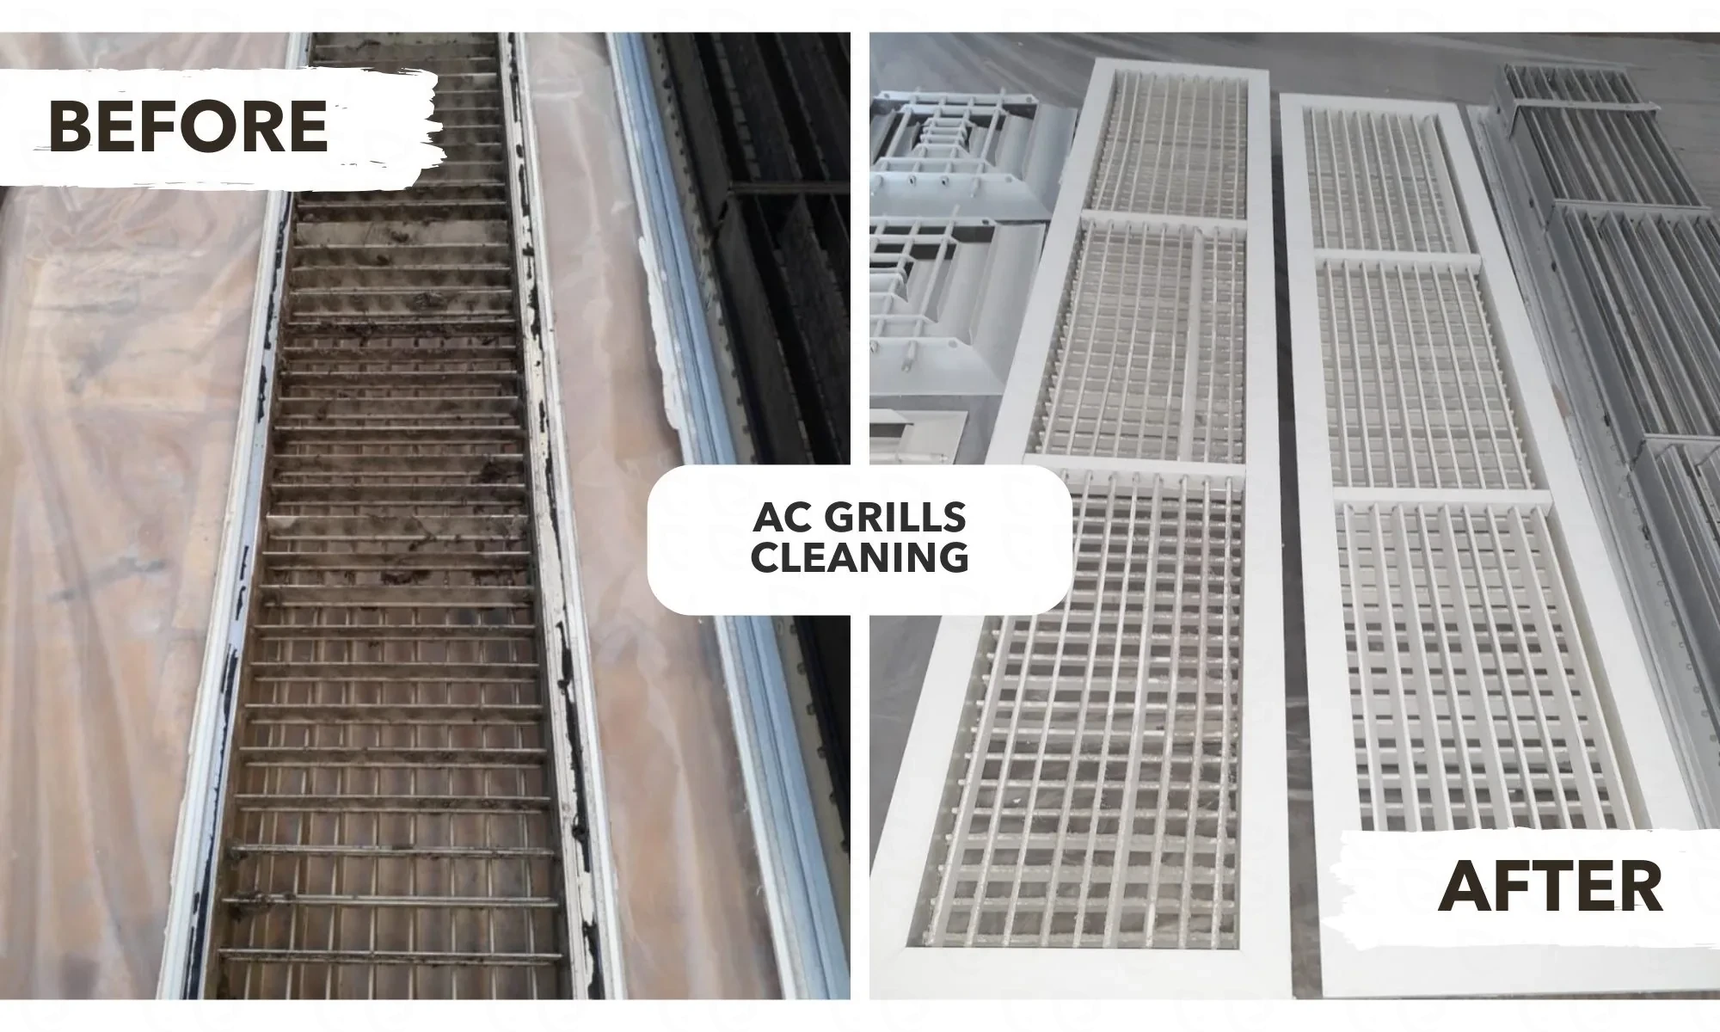
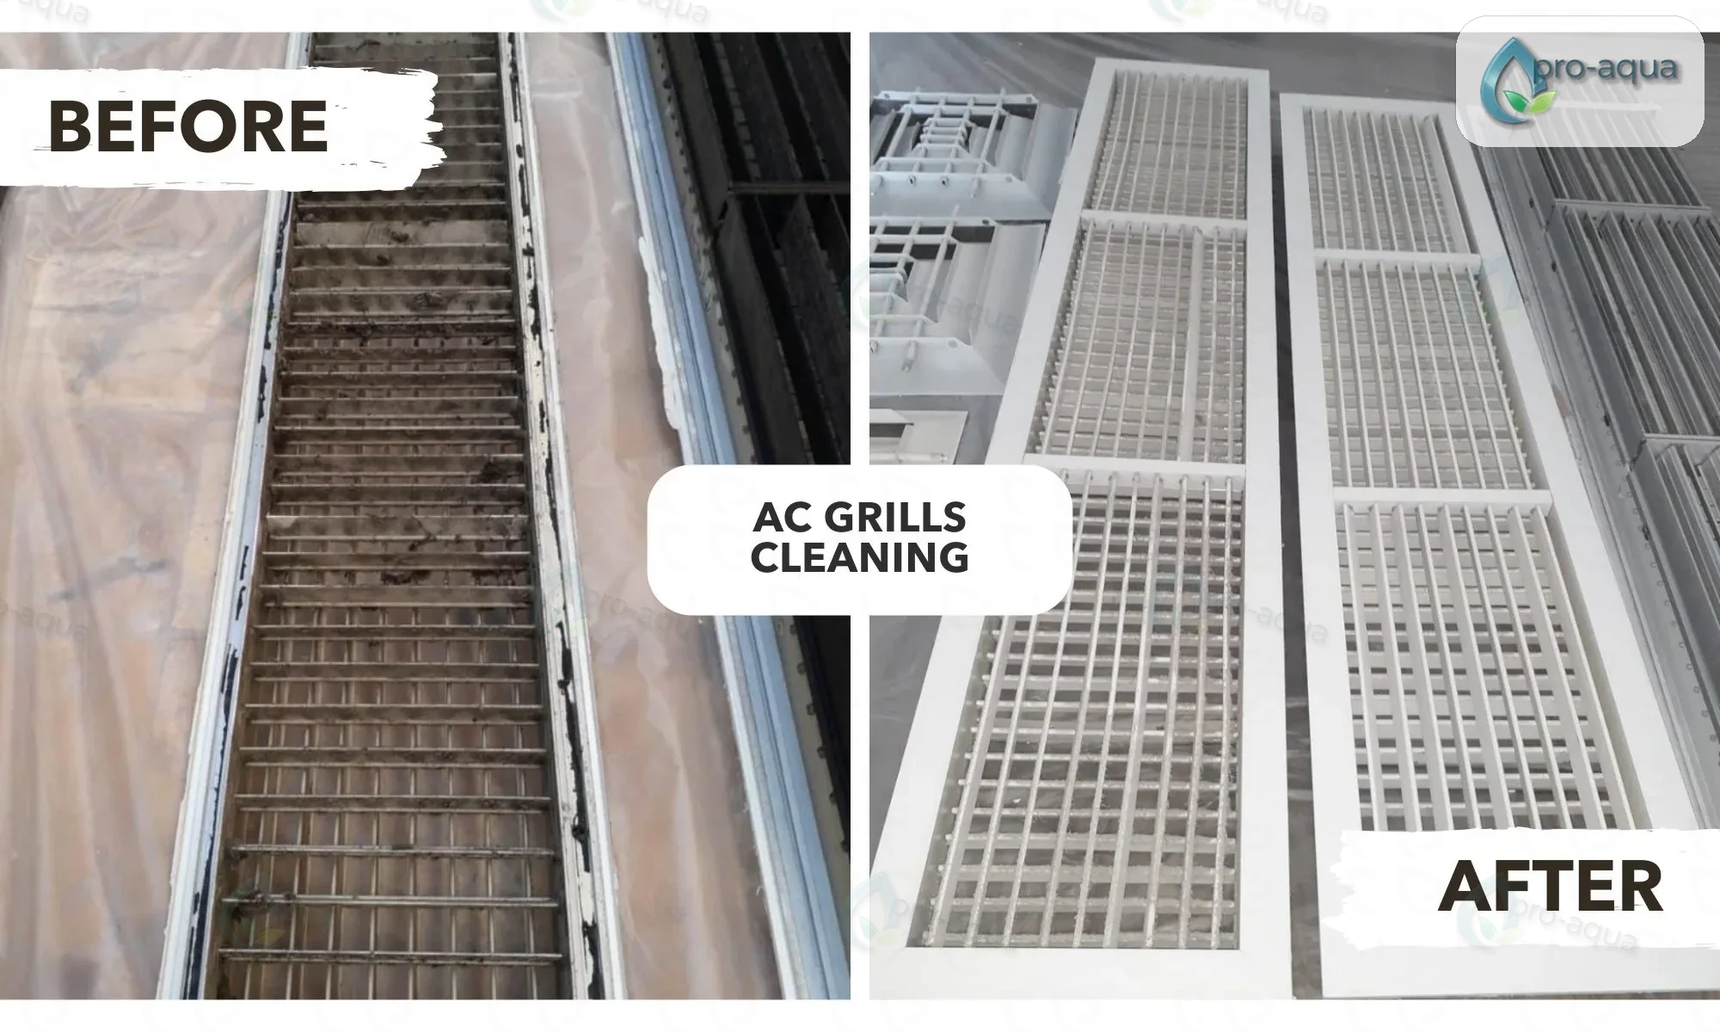
Add risk check section and protected image lightbox

Changed region(s): [[0.837, 0.0308, 0.992, 0.1542]]

diff --git a/index.html b/index.html
@@ -1161,21 +1161,44 @@ a:focus-visible,button:focus-visible,.hbtn:focus-visible,.bb-cta:focus-visible,.
 }
 /* ── Section visual separation ─────────────────────────────────── */
 section[id]:not(#hero):not(#before-after){border-top:2px solid var(--bg3)}
-/* ── Warning Signs Section ──────────────────────────────────────── */
-#warning-signs{background:var(--bg2)}
-.ws-chip{display:inline-flex;align-items:center;gap:6px;background:rgba(220,38,38,.1);border:1px solid rgba(220,38,38,.25);border-radius:20px;padding:5px 13px;font-size:12px;font-weight:700;color:#DC2626;letter-spacing:.4px;margin-bottom:18px}
-.ws-grid{display:grid;grid-template-columns:repeat(5,1fr);gap:14px;margin:32px 0 40px}
-.ws-card{background:#fff;border-radius:14px;padding:24px 14px 20px;text-align:center;border:1px solid var(--bg3);transition:transform .2s,box-shadow .2s}
-.ws-card:hover{transform:translateY(-3px);box-shadow:0 8px 24px rgba(0,0,0,.08)}
-.ws-ico{width:54px;height:54px;border-radius:50%;display:flex;align-items:center;justify-content:center;margin:0 auto 14px}
-.ws-label{font-size:13.5px;font-weight:700;color:var(--navy);margin-bottom:6px;line-height:1.3}
-.ws-desc{font-size:12px;color:#6b7280;line-height:1.5}
-.ws-cta-wrap{text-align:center}
-.ws-btn{display:inline-flex;align-items:center;gap:8px;background:var(--navy);color:#fff;border:none;border-radius:10px;padding:15px 30px;font-size:15px;font-weight:700;cursor:pointer;transition:background .2s,transform .2s}
-.ws-btn:hover{background:#253e55;transform:translateY(-1px)}
-.ws-btn-note{font-size:12px;color:#9ca3af;margin-top:10px}
-@media(max-width:900px){.ws-grid{grid-template-columns:repeat(3,1fr)}}
-@media(max-width:560px){.ws-grid{grid-template-columns:repeat(2,1fr);gap:10px}.ws-card{padding:16px 10px 14px}.ws-ico{width:44px;height:44px}.ws-label{font-size:12.5px}}
+/* ── Warning Signs / Risk Check Section ─────────────────────────── */
+#warning-signs{background:linear-gradient(180deg,#fff 0%,var(--bg2) 100%)}
+.ws-head{text-align:center;max-width:760px;margin:0 auto}
+.ws-chip{display:inline-flex;align-items:center;gap:6px;background:rgba(220,38,38,.08);border:1px solid rgba(220,38,38,.22);border-radius:999px;padding:6px 16px;font-size:12px;font-weight:800;color:#DC2626;letter-spacing:.04em;margin-bottom:18px}
+.ws-grid{display:grid;grid-template-columns:repeat(5,minmax(0,1fr));gap:20px;max-width:900px;margin:42px auto 38px;align-items:start}
+.ws-card{appearance:none;background:transparent;border:0;text-align:center;display:flex;flex-direction:column;align-items:center;gap:14px;cursor:default;color:inherit;min-width:0}
+.ws-photo{width:116px;height:116px;border-radius:50%;padding:4px;background:#fff;box-shadow:0 10px 28px rgba(28,50,68,.12);border:1px solid rgba(220,38,38,.16);position:relative;overflow:hidden;transition:transform .2s ease,box-shadow .2s ease,border-color .2s ease}
+.ws-photo::after{content:'';position:absolute;inset:4px;border-radius:50%;box-shadow:inset 0 0 0 1px rgba(255,255,255,.75);pointer-events:none}
+.ws-photo img{width:100%;height:100%;object-fit:cover;border-radius:50%;display:block;user-select:none;-webkit-user-drag:none}
+.ws-card:hover .ws-photo,.ws-card:focus-visible .ws-photo{transform:translateY(-4px);box-shadow:0 16px 36px rgba(28,50,68,.18);border-color:rgba(220,38,38,.3)}
+.ws-card:focus-visible{outline:3px solid rgba(88,153,227,.42);outline-offset:8px;border-radius:16px}
+.ws-label{font-size:14px;font-weight:800;color:var(--navy);line-height:1.25;max-width:138px}
+.ws-cta-wrap{text-align:center;display:flex;flex-direction:column;align-items:center;gap:10px}
+.ws-btn{display:inline-flex;align-items:center;justify-content:center;gap:9px;background:var(--blue);color:#fff;border:none;border-radius:12px;padding:17px 34px;font-size:16px;font-weight:800;cursor:pointer;transition:background .2s,transform .2s,box-shadow .2s;box-shadow:0 8px 24px rgba(88,153,227,.28);min-height:54px}
+.ws-btn:hover{background:var(--blue-d);transform:translateY(-1px);box-shadow:0 12px 30px rgba(88,153,227,.34)}
+.ws-btn-note{font-size:12px;color:#7b8794;font-style:italic}
+.ws-mini-proof{display:inline-flex;align-items:center;gap:8px;background:#fff;border:1px solid var(--bg3);border-radius:999px;padding:8px 14px;font-size:12px;font-weight:700;color:var(--navy);box-shadow:var(--sh0)}
+.ws-mini-proof i{width:7px;height:7px;border-radius:50%;background:#25D366;display:inline-block;box-shadow:0 0 0 4px rgba(37,211,102,.12)}
+@media(max-width:900px){.ws-grid{grid-template-columns:repeat(3,1fr);max-width:620px}.ws-photo{width:108px;height:108px}}
+@media(max-width:560px){.ws-grid{grid-template-columns:repeat(2,1fr);gap:20px 12px;margin:34px auto}.ws-photo{width:96px;height:96px}.ws-label{font-size:13px}.ws-btn{width:100%;padding:16px 18px}.ws-mini-proof{width:100%;justify-content:center}}
+/* ── Protected Image Lightbox ───────────────────────────────────── */
+.pa-lightbox-ready{cursor:zoom-in}
+.pa-img-lightbox{position:fixed;inset:0;z-index:10020;background:rgba(10,22,34,.84);display:flex;align-items:center;justify-content:center;padding:28px;opacity:0;pointer-events:none;transition:opacity .22s ease}
+.pa-img-lightbox.open{opacity:1;pointer-events:auto}
+.pa-lightbox-panel{width:min(1120px,100%);max-height:92vh;display:flex;flex-direction:column;gap:12px;transform:translateY(14px) scale(.985);transition:transform .22s ease}
+.pa-img-lightbox.open .pa-lightbox-panel{transform:translateY(0) scale(1)}
+.pa-lightbox-top{display:flex;align-items:center;justify-content:space-between;gap:14px;color:#fff}
+.pa-lightbox-brand{display:inline-flex;align-items:center;gap:10px;font-size:13px;font-weight:800;letter-spacing:.03em;text-transform:uppercase}
+.pa-lightbox-brand img{height:30px;width:auto;filter:drop-shadow(0 3px 10px rgba(0,0,0,.2))}
+.pa-lightbox-close{width:42px;height:42px;border:1px solid rgba(255,255,255,.24);border-radius:999px;background:rgba(255,255,255,.1);color:#fff;font-size:24px;line-height:1;display:flex;align-items:center;justify-content:center;transition:background .18s,border-color .18s}
+.pa-lightbox-close:hover{background:rgba(255,255,255,.18);border-color:rgba(255,255,255,.38)}
+.pa-lightbox-frame{position:relative;border-radius:18px;overflow:hidden;background:#0b1621;border:1px solid rgba(255,255,255,.16);box-shadow:0 28px 80px rgba(0,0,0,.45)}
+.pa-lightbox-frame::before{content:'';position:absolute;inset:0;z-index:2;pointer-events:none;background-image:url('assets/logo-full.webp');background-repeat:repeat;background-size:210px auto;opacity:.09;transform:rotate(-14deg) scale(1.18);transform-origin:center}
+.pa-lightbox-frame::after{content:'PRO AQUA DUBAI';position:absolute;right:18px;bottom:16px;z-index:3;background:rgba(255,255,255,.88);color:var(--navy);border-radius:999px;padding:7px 14px;font-size:11px;font-weight:900;letter-spacing:.08em;box-shadow:0 8px 28px rgba(0,0,0,.2);pointer-events:none}
+.pa-lightbox-img{display:block;width:100%;max-height:76vh;object-fit:contain;background:#fff;user-select:none;-webkit-user-drag:none}
+.pa-lightbox-caption{color:rgba(255,255,255,.78);font-size:13px;line-height:1.45;min-height:18px}
+@media(max-width:640px){.pa-img-lightbox{padding:14px}.pa-lightbox-top{align-items:flex-start}.pa-lightbox-brand span{display:none}.pa-lightbox-frame{border-radius:14px}.pa-lightbox-frame::before{background-size:150px auto;opacity:.1}.pa-lightbox-frame::after{right:10px;bottom:10px;font-size:9px;padding:5px 9px}.pa-lightbox-img{max-height:72vh}}
+@media(prefers-reduced-motion:reduce){.pa-img-lightbox,.pa-lightbox-panel{transition:none}}
 /* ── Risk Check Popup — Step-by-Step ─────────────────────────────── */
 .risk-overlay{position:fixed;inset:0;background:rgba(0,0,0,.55);z-index:10000;display:flex;align-items:center;justify-content:center;padding:16px;opacity:0;pointer-events:none;transition:opacity .25s}
 .risk-overlay.open{opacity:1;pointer-events:auto}
@@ -1437,7 +1460,7 @@ section[id]:not(#hero):not(#before-after){border-top:2px solid var(--bg3)}
           <div class="rs-option" onclick="rsAnswer(2,0)"><span class="rs-opt-icon">✅</span><div><div class="rs-opt-title">No smell at all</div><div class="rs-opt-sub">Good sign</div></div></div>
           <div class="rs-option" onclick="rsAnswer(2,1)"><span class="rs-opt-icon">📅</span><div><div class="rs-opt-title">Rarely — very mild</div><div class="rs-opt-sub">Early warning</div></div></div>
           <div class="rs-option" onclick="rsAnswer(2,2)"><span class="rs-opt-icon">⚠</span><div><div class="rs-opt-title">Often — noticeable</div><div class="rs-opt-sub">Mould likely present</div></div></div>
-          <div class="rs-option" onclick="rsAnswer(2,3)"><span class="rs-opt-icon">🔴</span><div><div class="rs-opt-title">Every time — strong smell</div><div class="rs-opt-sub">Urgent — bacteria / mould confirmed</div></div></div>
+          <div class="rs-option" onclick="rsAnswer(2,3)"><span class="rs-opt-icon">🔴</span><div><div class="rs-opt-title">Every time — strong smell</div><div class="rs-opt-sub">Urgent warning sign — needs inspection</div></div></div>
         </div>
       </div>
       <!-- Q4 -->
@@ -1465,7 +1488,7 @@ section[id]:not(#hero):not(#before-after){border-top:2px solid var(--bg3)}
       <!-- Q6 -->
       <div class="rs-q-step" id="rsq-5" style="display:none">
         <div class="rs-question">Are family members experiencing symptoms at home?</div>
-        <div class="rs-q-hint">Poor indoor air quality is the #1 cause of unexplained allergy symptoms in Dubai homes</div>
+        <div class="rs-q-hint">Poor indoor air quality can contribute to allergy-like symptoms in Dubai homes</div>
         <div class="rs-options">
           <div class="rs-option" onclick="rsAnswer(5,0)"><span class="rs-opt-icon">✅</span><div><div class="rs-opt-title">No symptoms at home</div><div class="rs-opt-sub">All clear</div></div></div>
           <div class="rs-option" onclick="rsAnswer(5,1)"><span class="rs-opt-icon">📅</span><div><div class="rs-opt-title">Mild, occasional sneezing</div><div class="rs-opt-sub">Monitor closely</div></div></div>
@@ -1821,56 +1844,44 @@ section[id]:not(#hero):not(#before-after){border-top:2px solid var(--bg3)}
 
 <!-- ===================== WARNING SIGNS ===================== -->
 <section id="warning-signs">
-  <div class="sec" style="text-align:center">
-    <span class="ws-chip">
-      <svg width="13" height="13" viewBox="0 0 24 24" fill="none" stroke="currentColor" stroke-width="2.5" stroke-linecap="round" stroke-linejoin="round"><path d="M10.29 3.86L1.82 18a2 2 0 0 0 1.71 3h16.94a2 2 0 0 0 1.71-3L13.71 3.86a2 2 0 0 0-3.42 0z"/><line x1="12" y1="9" x2="12" y2="13"/><line x1="12" y1="17" x2="12.01" y2="17"/></svg>
-      Warning Signs
-    </span>
-    <h2 class="sec-t">Does Your Home Show These<br><em style="color:#DC2626;font-style:normal">Warning Signs?</em></h2>
-    <p class="sec-sub" style="max-width:560px;margin:0 auto 0">If you recognise any of these, your AC ducts or home may need professional attention.</p>
-    <div class="ws-grid">
+  <div class="sec">
+    <div class="ws-head">
+      <span class="ws-chip">
+        <svg width="13" height="13" viewBox="0 0 24 24" fill="none" stroke="currentColor" stroke-width="2.5" stroke-linecap="round" stroke-linejoin="round" aria-hidden="true"><path d="M10.29 3.86L1.82 18a2 2 0 0 0 1.71 3h16.94a2 2 0 0 0 1.71-3L13.71 3.86a2 2 0 0 0-3.42 0z"/><line x1="12" y1="9" x2="12" y2="13"/><line x1="12" y1="17" x2="12.01" y2="17"/></svg>
+        Warning Signs
+      </span>
+      <h2 class="sec-t">Does Your Home Show These<br><em style="color:#DC2626;font-style:italic">Warning Signs?</em></h2>
+      <p class="sec-sub" style="max-width:640px;margin:0 auto">If you recognise any of these, your AC ducts or home may need professional attention. Take the free Risk Check Quiz before you book anything.</p>
+    </div>
+    <div class="ws-grid" aria-label="AC risk warning signs">
       <div class="ws-card">
-        <div class="ws-ico" style="background:rgba(220,38,38,.1)">
-          <svg width="26" height="26" viewBox="0 0 24 24" fill="none" stroke="#DC2626" stroke-width="2" stroke-linecap="round" stroke-linejoin="round"><path d="M12 22s8-4 8-10V5l-8-3-8 3v7c0 6 8 10 8 10z"/></svg>
-        </div>
-        <div class="ws-label">Allergy Triggers</div>
-        <div class="ws-desc">Sneezing, itchy eyes or headaches that improve when you leave home</div>
+        <span class="ws-photo"><img src="assets/campaign-back-to-school-allergy-reset-dubai-v2.webp" alt="Allergy trigger warning sign in a Dubai family home" loading="lazy"></span>
+        <span class="ws-label">Allergy triggers</span>
       </div>
       <div class="ws-card">
-        <div class="ws-ico" style="background:rgba(251,188,4,.1)">
-          <svg width="26" height="26" viewBox="0 0 24 24" fill="none" stroke="#B45309" stroke-width="2" stroke-linecap="round" stroke-linejoin="round"><path d="M12 2a7 7 0 0 1 7 7c0 5-7 13-7 13S5 14 5 9a7 7 0 0 1 7-7z"/><circle cx="12" cy="9" r="2.5"/></svg>
-        </div>
-        <div class="ws-label">Musty Smell from AC</div>
-        <div class="ws-desc">Stale or mouldy odour every time the AC turns on or airflow starts</div>
+        <span class="ws-photo"><img src="assets/before-after-ac-duct-deep-cleaning-dubai.webp" alt="AC duct contamination that can cause bad smell from vents" loading="lazy"></span>
+        <span class="ws-label">Bad smell from vents</span>
       </div>
       <div class="ws-card">
-        <div class="ws-ico" style="background:rgba(107,114,128,.1)">
-          <svg width="26" height="26" viewBox="0 0 24 24" fill="none" stroke="#4B5563" stroke-width="2" stroke-linecap="round" stroke-linejoin="round"><rect x="3" y="3" width="18" height="18" rx="2"/><line x1="3" y1="9" x2="21" y2="9"/><line x1="9" y1="9" x2="9" y2="21"/></svg>
-        </div>
-        <div class="ws-label">Dust or Mould at Vents</div>
-        <div class="ws-desc">Dark marks or visible dust buildup around AC grilles and diffusers</div>
+        <span class="ws-photo"><img src="assets/before-after-ac-grills-cleaning.webp" alt="Black dust and mould warning signs around AC grills" loading="lazy"></span>
+        <span class="ws-label">Black dust or mould around AC grills</span>
       </div>
       <div class="ws-card">
-        <div class="ws-ico" style="background:rgba(88,153,227,.1)">
-          <svg width="26" height="26" viewBox="0 0 24 24" fill="none" stroke="#5899E3" stroke-width="2" stroke-linecap="round" stroke-linejoin="round"><path d="M9.59 4.59A2 2 0 1 1 11 8H2m10.59 11.41A2 2 0 1 0 14 16H2m15.73-8.27A2.5 2.5 0 1 1 19.5 12H2"/></svg>
-        </div>
-        <div class="ws-label">Weak Airflow</div>
-        <div class="ws-desc">Poor cooling or low airflow despite the AC running at full capacity</div>
+        <span class="ws-photo"><img src="assets/before-after-ac-filter-sanitizing.webp" alt="Dirty AC filter warning sign for weak airflow or poor cooling" loading="lazy"></span>
+        <span class="ws-label">Weak airflow or poor cooling</span>
       </div>
       <div class="ws-card">
-        <div class="ws-ico" style="background:rgba(77,168,130,.1)">
-          <svg width="26" height="26" viewBox="0 0 24 24" fill="none" stroke="#4DA882" stroke-width="2" stroke-linecap="round" stroke-linejoin="round"><line x1="12" y1="1" x2="12" y2="23"/><path d="M17 5H9.5a3.5 3.5 0 0 0 0 7h5a3.5 3.5 0 0 1 0 7H6"/></svg>
-        </div>
-        <div class="ws-label">High DEWA Bills</div>
-        <div class="ws-desc">Electricity bills that keep rising without a change in usage habits</div>
+        <span class="ws-photo"><img src="assets/campaign-summer-ac-check-dubai-v2.webp" alt="AC inspection warning sign linked to high DEWA bills" loading="lazy"></span>
+        <span class="ws-label">High DEWA bills</span>
       </div>
     </div>
     <div class="ws-cta-wrap">
       <button class="ws-btn" onclick="openRisk()">
-        <svg width="17" height="17" viewBox="0 0 24 24" fill="none" stroke="currentColor" stroke-width="2.5" stroke-linecap="round" stroke-linejoin="round"><circle cx="11" cy="11" r="8"/><line x1="21" y1="21" x2="16.65" y2="16.65"/></svg>
-        Check Your AC Risk — Free
+        <svg width="18" height="18" viewBox="0 0 24 24" fill="none" stroke="currentColor" stroke-width="2.5" stroke-linecap="round" stroke-linejoin="round" aria-hidden="true"><circle cx="11" cy="11" r="8"/><line x1="21" y1="21" x2="16.65" y2="16.65"/></svg>
+        Start Risk Check Quiz — Free
       </button>
-      <div class="ws-btn-note">Takes 30 seconds · No commitment</div>
+      <div class="ws-mini-proof"><i></i> Popup quiz · 6 questions · WhatsApp result</div>
+      <div class="ws-btn-note">Takes 90 seconds · No commitment</div>
     </div>
   </div>
 </section>
@@ -3184,6 +3195,89 @@ function playVideo(){
 
   if(document.readyState==='loading')document.addEventListener('DOMContentLoaded',initScrollSpy);
   else initScrollSpy();
+})();
+</script>
+
+<!-- PROTECTED IMAGE LIGHTBOX -->
+<div id="pa-img-lightbox" class="pa-img-lightbox" role="dialog" aria-modal="true" aria-hidden="true" aria-label="Image preview">
+  <div class="pa-lightbox-panel" role="document">
+    <div class="pa-lightbox-top">
+      <div class="pa-lightbox-brand">
+        <img src="assets/logo-full.webp" alt="Pro Aqua Dubai">
+        <span>Protected Pro Aqua Dubai image</span>
+      </div>
+      <button type="button" class="pa-lightbox-close" aria-label="Close image preview">×</button>
+    </div>
+    <div class="pa-lightbox-frame">
+      <img id="pa-lightbox-img" class="pa-lightbox-img" src="" alt="" draggable="false">
+    </div>
+    <div id="pa-lightbox-caption" class="pa-lightbox-caption"></div>
+  </div>
+</div>
+<script>
+(function(){
+  function initProtectedLightbox(){
+    var overlay=document.getElementById('pa-img-lightbox');
+    var imgEl=document.getElementById('pa-lightbox-img');
+    var capEl=document.getElementById('pa-lightbox-caption');
+    var closeBtn=overlay&&overlay.querySelector('.pa-lightbox-close');
+    if(!overlay||!imgEl||!capEl||!closeBtn)return;
+    var lastFocus=null;
+
+    function findCaption(img){
+      var card=img.closest('.ba-card,.srv-card,.season-card,.rev-card,.franco-card');
+      if(card){
+        var title=card.querySelector('.ba-cap-t,h3,strong');
+        if(title&&title.textContent.trim())return title.textContent.trim();
+      }
+      return img.getAttribute('alt')||'Pro Aqua Dubai image';
+    }
+    function isEligible(img){
+      if(!img||img.dataset.noLightbox!==undefined)return false;
+      if(img.closest('nav,footer,.fc-av,.risk-overlay'))return false;
+      var src=(img.currentSrc||img.getAttribute('src')||'').toLowerCase();
+      if(!src||src.indexOf('logo')>-1||src.indexOf('favicon')>-1)return false;
+      return true;
+    }
+    function openFor(img){
+      if(!isEligible(img))return;
+      lastFocus=document.activeElement;
+      imgEl.src=img.currentSrc||img.src;
+      imgEl.alt=img.alt||'Pro Aqua Dubai protected image';
+      capEl.textContent=findCaption(img);
+      overlay.classList.add('open');
+      overlay.removeAttribute('aria-hidden');
+      document.body.style.overflow='hidden';
+      closeBtn.focus({preventScroll:true});
+    }
+    function closeLightbox(){
+      overlay.classList.remove('open');
+      overlay.setAttribute('aria-hidden','true');
+      document.body.style.overflow='';
+      window.setTimeout(function(){imgEl.removeAttribute('src')},180);
+      if(lastFocus&&typeof lastFocus.focus==='function')lastFocus.focus({preventScroll:true});
+    }
+    [].slice.call(document.querySelectorAll('section img,.hero img')).forEach(function(img){
+      if(!isEligible(img)||img.dataset.paLightboxBound)return;
+      img.dataset.paLightboxBound='1';
+      img.classList.add('pa-lightbox-ready');
+      img.setAttribute('draggable','false');
+      img.addEventListener('contextmenu',function(e){e.preventDefault()});
+      img.addEventListener('click',function(e){
+        e.preventDefault();
+        e.stopPropagation();
+        openFor(img);
+      });
+    });
+    imgEl.addEventListener('contextmenu',function(e){e.preventDefault()});
+    closeBtn.addEventListener('click',closeLightbox);
+    overlay.addEventListener('click',function(e){if(e.target===overlay)closeLightbox()});
+    document.addEventListener('keydown',function(e){
+      if(e.key==='Escape'&&overlay.classList.contains('open'))closeLightbox();
+    });
+  }
+  if(document.readyState==='loading')document.addEventListener('DOMContentLoaded',initProtectedLightbox);
+  else initProtectedLightbox();
 })();
 </script>
 <!-- MOBILE NAV OVERLAY -->

diff --git a/MEMORY.md b/MEMORY.md
@@ -31,6 +31,15 @@
 
 ## Arbeitslog
 
+### 2026-06-15 — Codex — Risk-Check-Section + geschützte Bild-Lightbox umgesetzt
+- **Erledigt:** `#warning-signs` als bildstarke Risk-Check-Section im Stil des gelieferten Screenshots überarbeitet: 5 runde Warning-Sign-Bilder, klare Headline, CTA "Start Risk Check Quiz — Free" und Hinweis "Popup quiz · 6 questions · WhatsApp result".
+- **Erledigt:** Bestehendes Risk-Check-Popup weiterverwendet; CTA öffnet das vorhandene 6-Fragen-Quiz. Zwei zu harte Popup-Claims entschärft (`bacteria / mould confirmed` → Inspection-Warnsignal, `#1 cause` → kann beitragen).
+- **Erledigt:** Globale geschützte Bild-Lightbox für Content-Bilder ergänzt. Normale Service-/Proof-/Review-/Seasonal-/Warning-Bilder öffnen bei Klick in einem großen Overlay mit Pro-Aqua-Dubai-Wasserzeichen und Caption. Logos, Avatare und UI-Icons bleiben ausgeschlossen.
+- **Erledigt:** 21 Content-Bilddateien in `assets/` mit eingebranntem Pro-Aqua-Logo-Wasserzeichen verstärkt; zusätzlich zeigt die Lightbox ein wiederholtes Pro-Aqua-Logo-Overlay. Hinweis: Ein Web-Wasserzeichen ist nie absolut unentfernbar, aber hier ist es nicht nur CSS, sondern in die ausgelieferten Bilddateien eingebettet.
+- **Verifikation:** Lokale Vorschau `http://localhost:8742/` mit Chrome/Playwright geprüft. Desktop 1280px und Mobile 390px: kein horizontaler Overflow, 5 Warning-Bilder, 25 anklickbare Content-Bilder, Risk-Quiz öffnet, Lightbox öffnet mit Wasserzeichen, Console 0 Errors / 0 Warnings.
+- **Nicht angefasst/staged:** Bestehende lokale `.DS_Store`-/Screenshot-/`assets/pictures_videos/`-Dateien bleiben unberührt.
+- **Nächster Schritt:** Visuelle Feinabstimmung der Warning-Sign-Bildauswahl möglich, sobald echte passende Pro-Aqua-Fotos für die 5 Symptome final ausgewählt sind.
+
 ### 2026-06-15 — Codex — ProAqua-2 GitHub-Push abgeschlossen
 - **Erledigt:** Lokale Branch `Franco2` erfolgreich als `main` in das neue Repo gepusht: https://github.com/agentdimarco-cloud/ProAqua-2
 - **Remote:** Separater Remote `proaqua2` zeigt auf `https://github.com/agentdimarco-cloud/ProAqua-2.git`.
